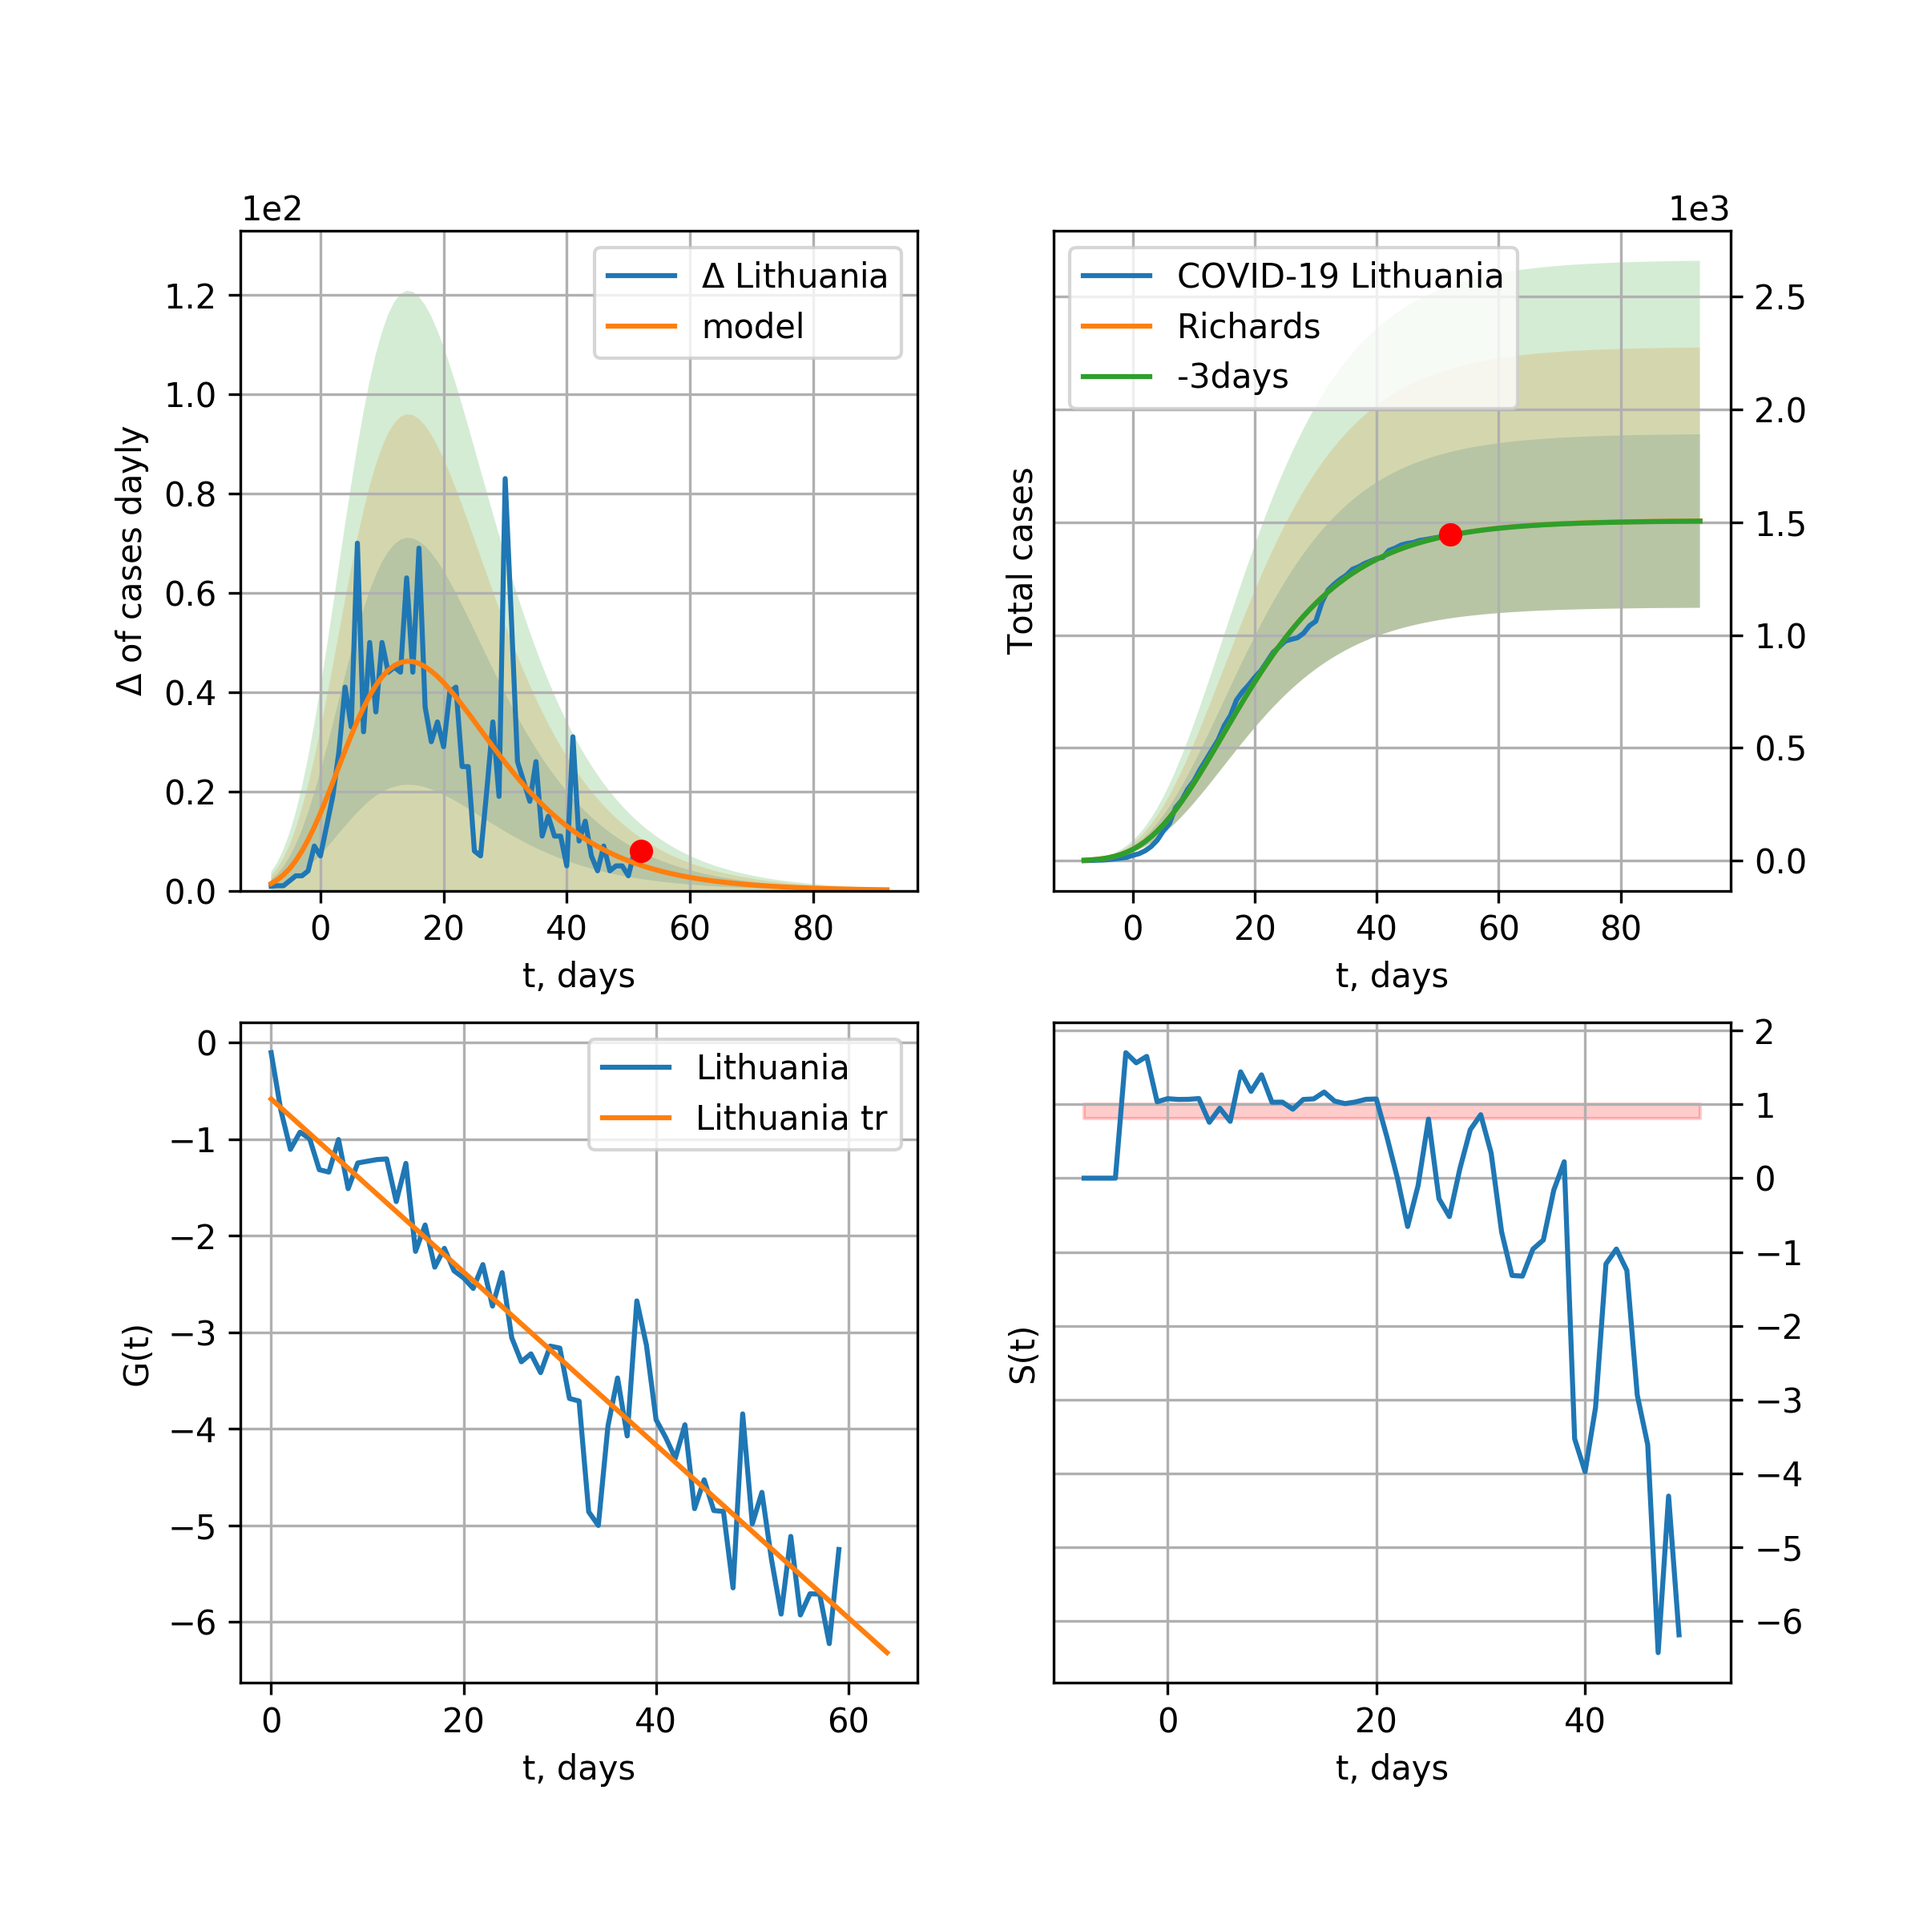
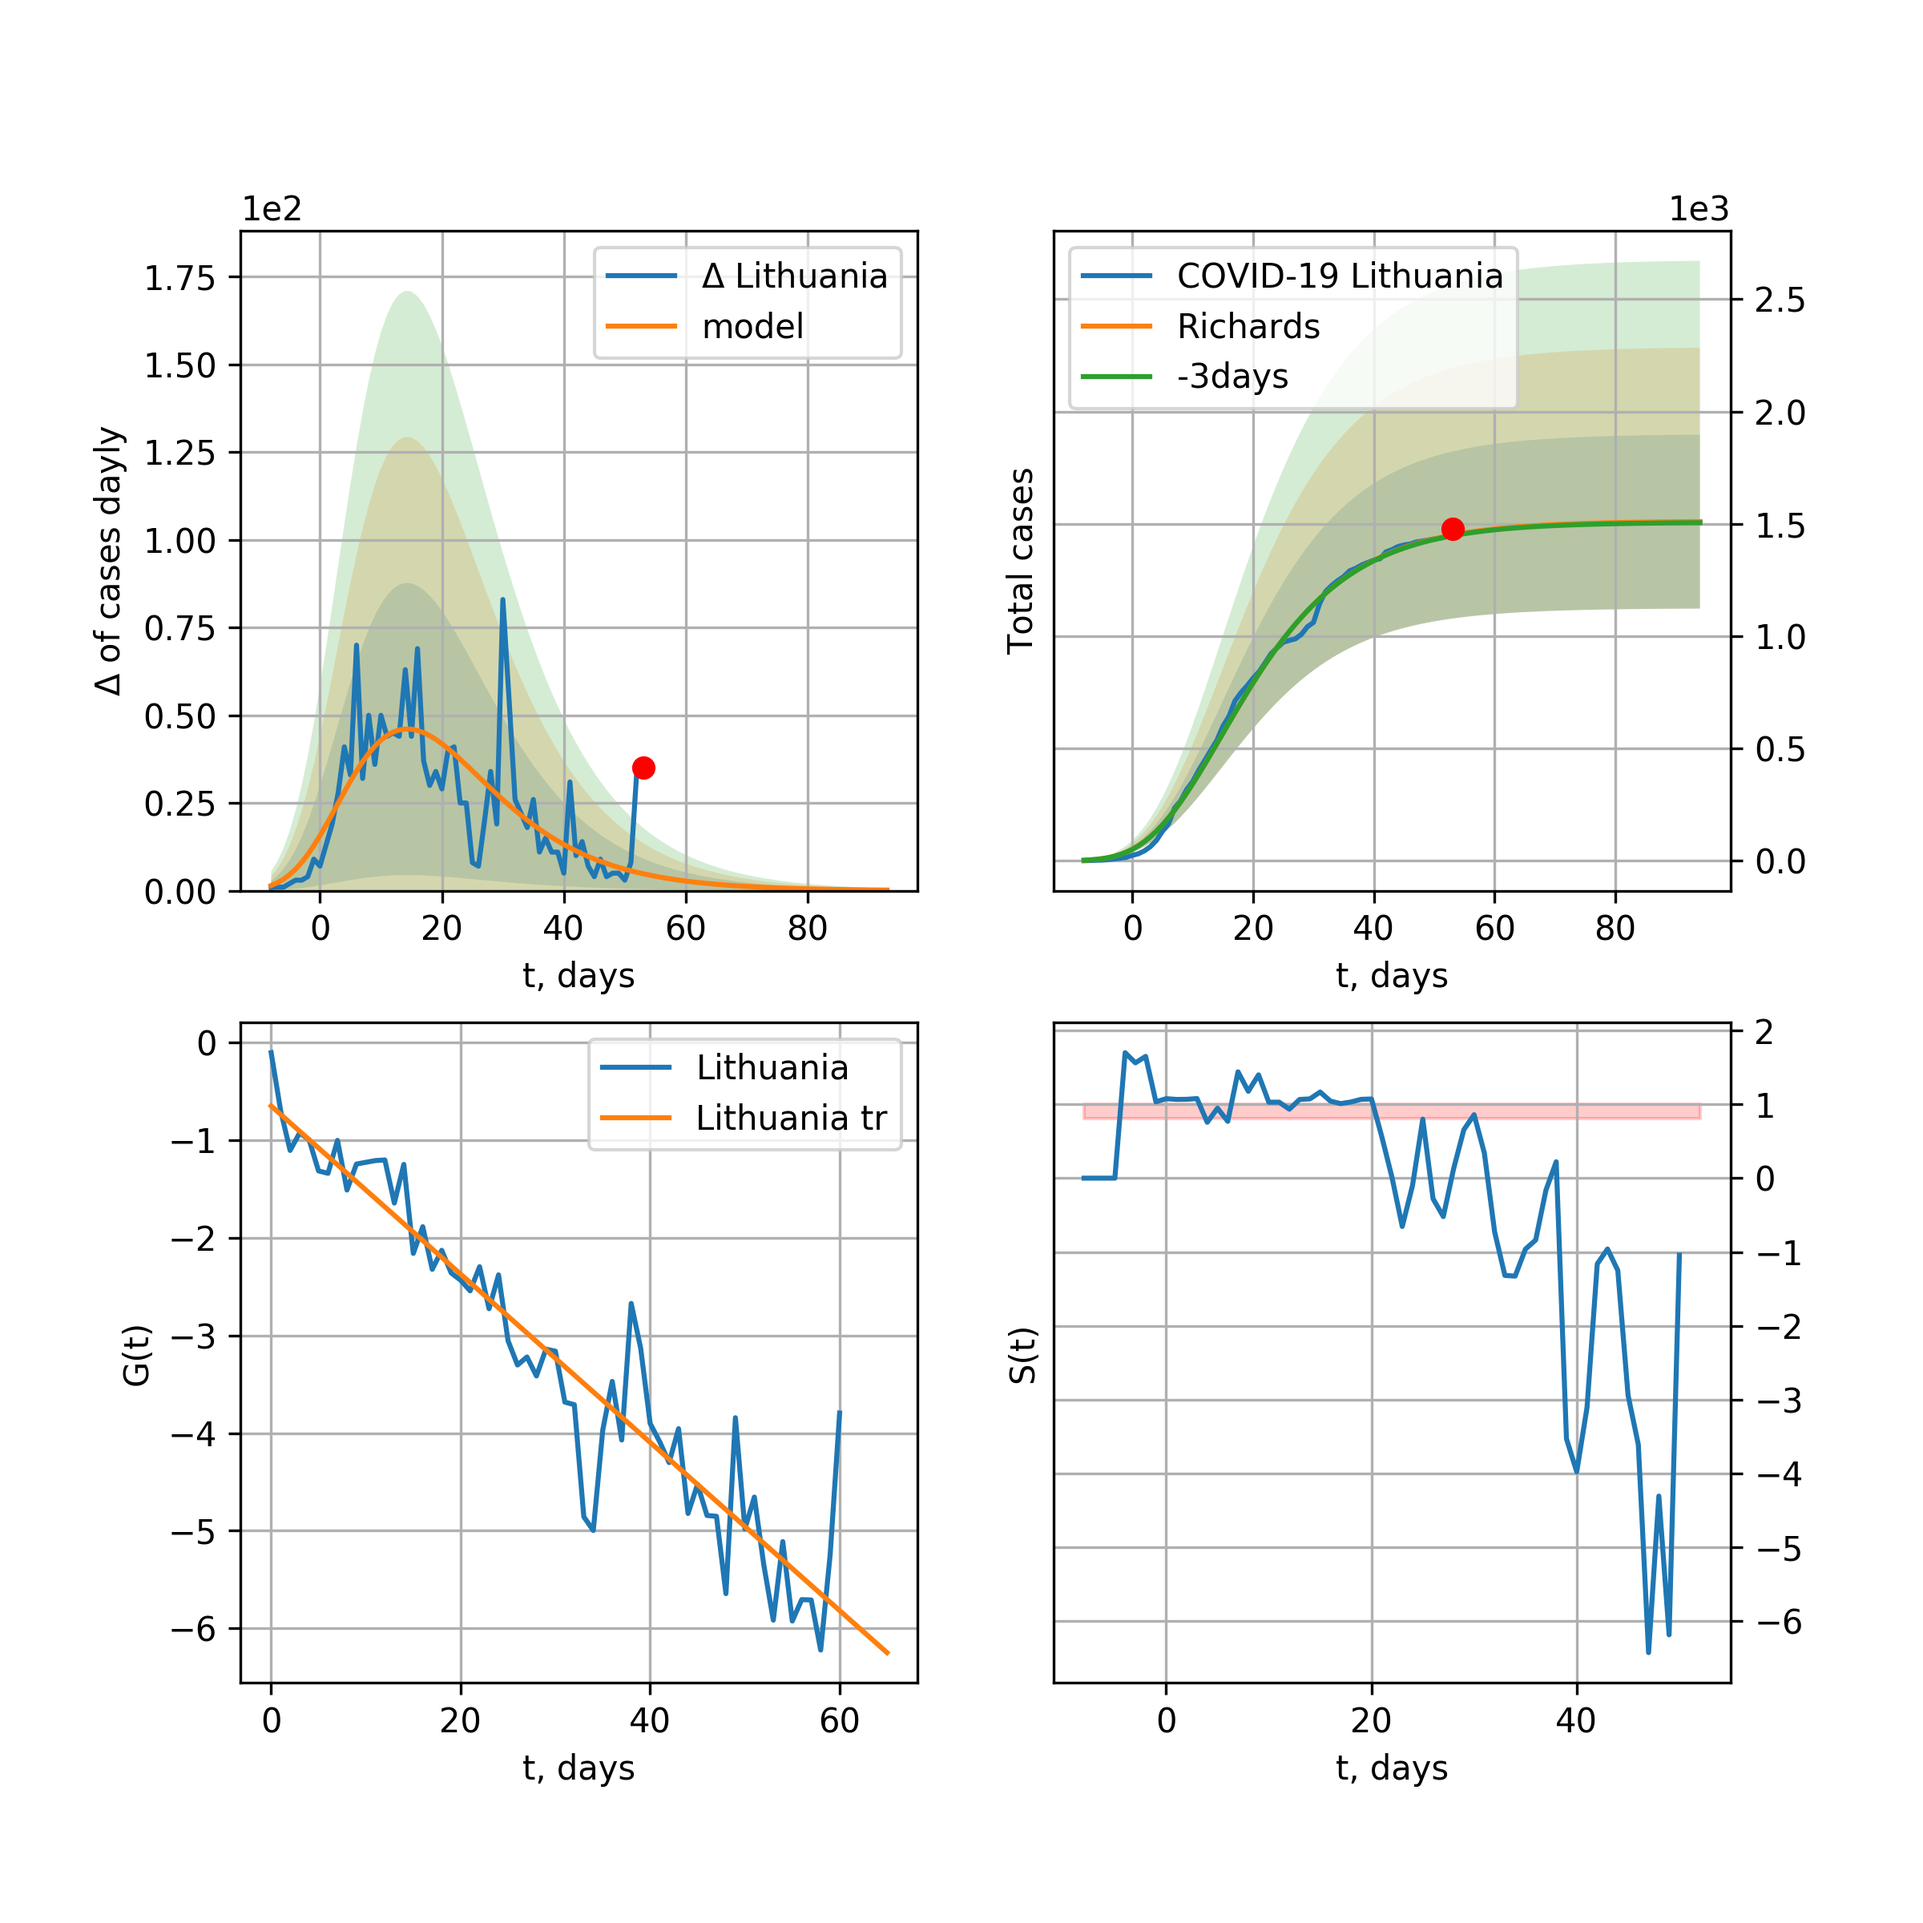
LT renew 2020-05-09

diff --git a/_site/index.html b/_site/index.html
@@ -1330,19 +1330,19 @@ trend coefficient of determination: 0.911586 <br />
     <br />
     <img src="pictures/covidcasesLithuania35_Q.png" alt="hi" class="inline"/><br /> 
 
-      Lithuania data at: 2020-05-08<br />
-+3 day model MAPE: 0.007864<br />
+      Lithuania data at: 2020-05-09<br />
++3 day model MAPE: 0.008856<br />
 model: logisticQ<br />
-coeffs: [ 1.41997026e+03  8.23758448e-07  1.87716829e+01 -1.65022416e+05]<br />
+coeffs: [ 1.42704062e+03  7.66614101e-07  1.88841509e+01 -1.75716468e+05]<br />
 S.Korea scenario coeffs: [0.35416971, 0.02606324, 4.35859408, 19.30413219]<br />
-rational stdev: 0.351442<br />
-forecast at the end of period: +71 days<br />
+rational stdev: 0.350097<br />
+forecast at the end of period: +70 days<br />
 	 deltaDaycases: 1<br />
-	 total cases: 1894 ± 665<br />
+	 total cases: 1902 ± 665<br />
 	 total death: 64 ± 67<br />
-trend coefficient of determination: 0.967195 <br />
- intercept_: -1.6847406455830347 <br />
- coeffs_: [ 0.         -0.39461988  0.00363381]<br />
+trend coefficient of determination: 0.965414 <br />
+ intercept_: -1.631496602087263 <br />
+ coeffs_: [ 0.         -0.40199829  0.00378951]<br />
           <br /> 
     
     Latvia
